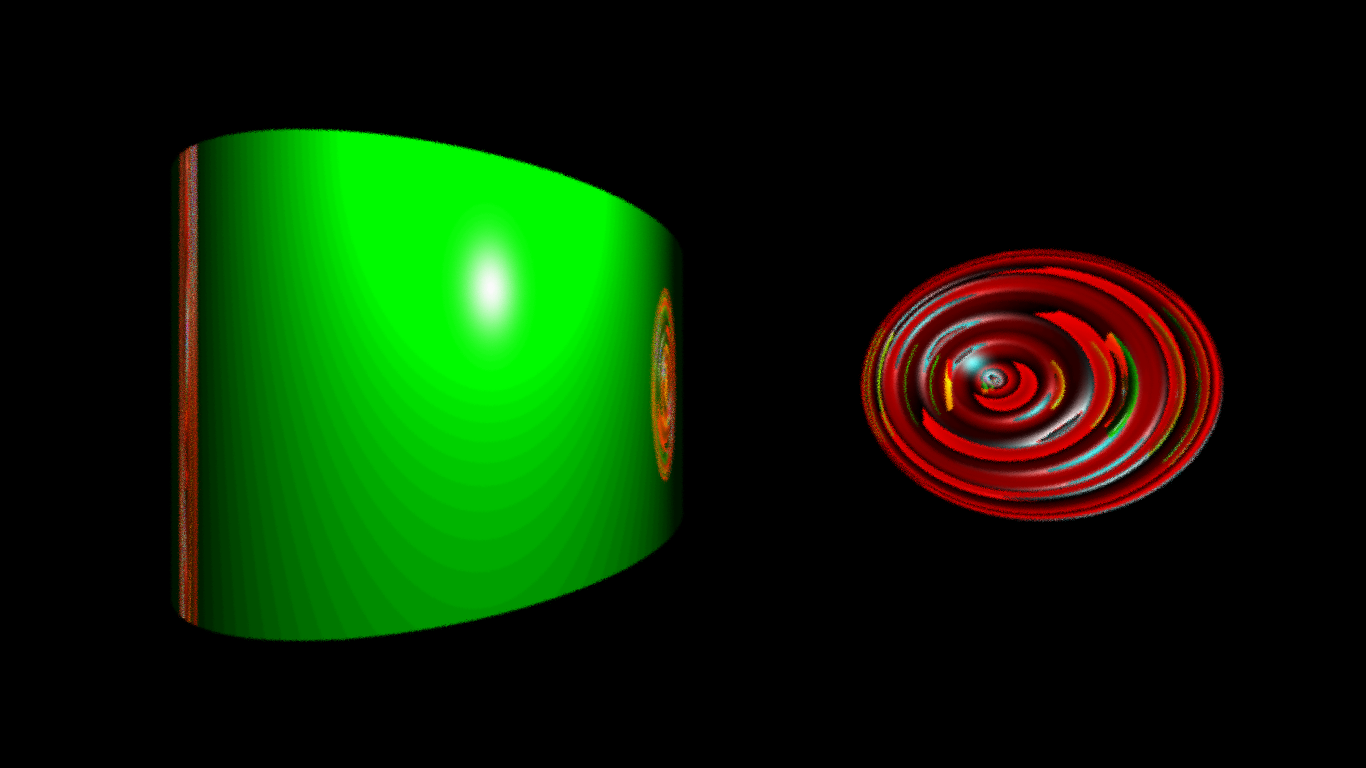
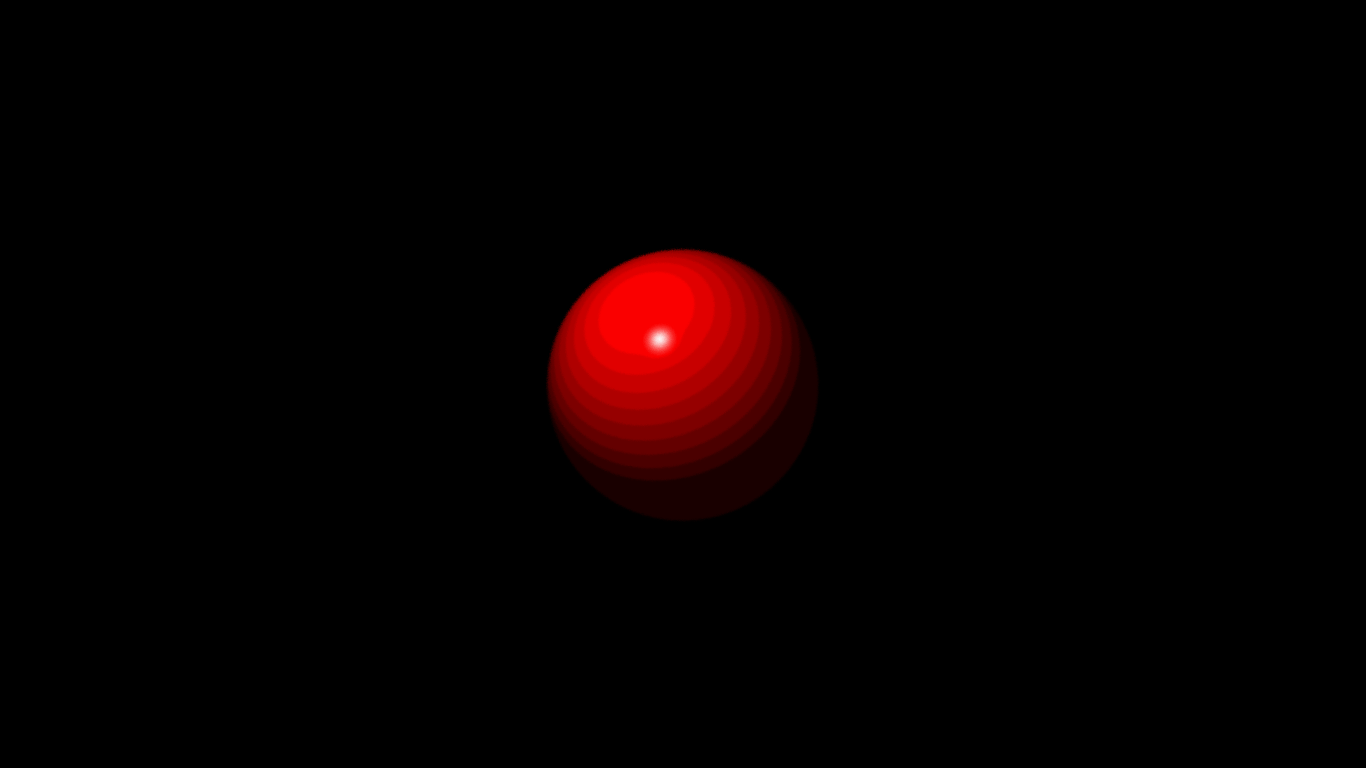
SAMPLES can be onw

diff --git a/src/main.cpp b/src/main.cpp
@@ -6,7 +6,7 @@
 #include "Solids/Sphere.hpp"
 #include "Solids/Cylinder.hpp"
 
-constexpr auto SAMPLES = 10;
+constexpr auto SAMPLES = 1;
 
 constexpr auto THREADS = 8;
 constexpr auto THREAD_LOAD = 10;
@@ -34,12 +34,12 @@ int main(void)
     };
 
     // Solids
-    std::unique_ptr<Sphere> sphere = std::make_unique<Sphere>(glm::vec3(2.5f, 0.f, 3.f), 1.f, material);
-    std::unique_ptr<Cylinder> cylinder = std::make_unique<Cylinder>(glm::vec3(-1.5f, 0.f, 3.f), 1.5f, 2.f, material2);
+    std::unique_ptr<Sphere> sphere = std::make_unique<Sphere>(glm::vec3(0.f, 0.f, 3.f), 1.f, material);
+    //std::unique_ptr<Cylinder> cylinder = std::make_unique<Cylinder>(glm::vec3(-1.5f, 0.f, 3.f), 1.5f, 2.f, material2);
 
     std::vector<std::unique_ptr<Solid>> solids;
     solids.push_back(std::move(sphere));
-    solids.push_back(std::move(cylinder));
+    //solids.push_back(std::move(cylinder));
 
     const auto focalLength = 1.f;
 
@@ -55,8 +55,15 @@ int main(void)
             {
                 float nearestIntersection = UINT32_MAX;
 
-                float y = ((row + glm::gaussRand(0.f, 1.f)) / (image.getHeight() - 1.f)) * 2 - 1;
-                float x = ((column + glm::gaussRand(0.f, 1.f)) / (image.getHeight() - 1.f)) * 2 - image.aspectRatio();
+                float randomY = 0.f;
+                float randomX = 0.f;
+                if (SAMPLES > 1) {
+                    randomY = glm::gaussRand(0.f, 1.f);
+                    randomX = glm::gaussRand(0.f, 1.f);
+                }
+
+                float y = ((row + randomX) / (image.getHeight() - 1.f)) * 2 - 1;
+                float x = ((column + randomY) / (image.getHeight() - 1.f)) * 2 - image.aspectRatio();
 
                 Ray ray{ glm::vec3(0.f), glm::vec3(x, y, focalLength) };
 

diff --git a/src/Ray.cpp b/src/Ray.cpp
@@ -8,7 +8,7 @@
 #include "Ray.hpp"
 #include "Light.hpp"
 
-auto constexpr MAX_DEPTH = 5;
+auto constexpr MAX_DEPTH = 0;
 auto constexpr BACKGROUND_COLOR = Pixel{ 0, 0, 0 };
 
 float attenuation(float distance)
